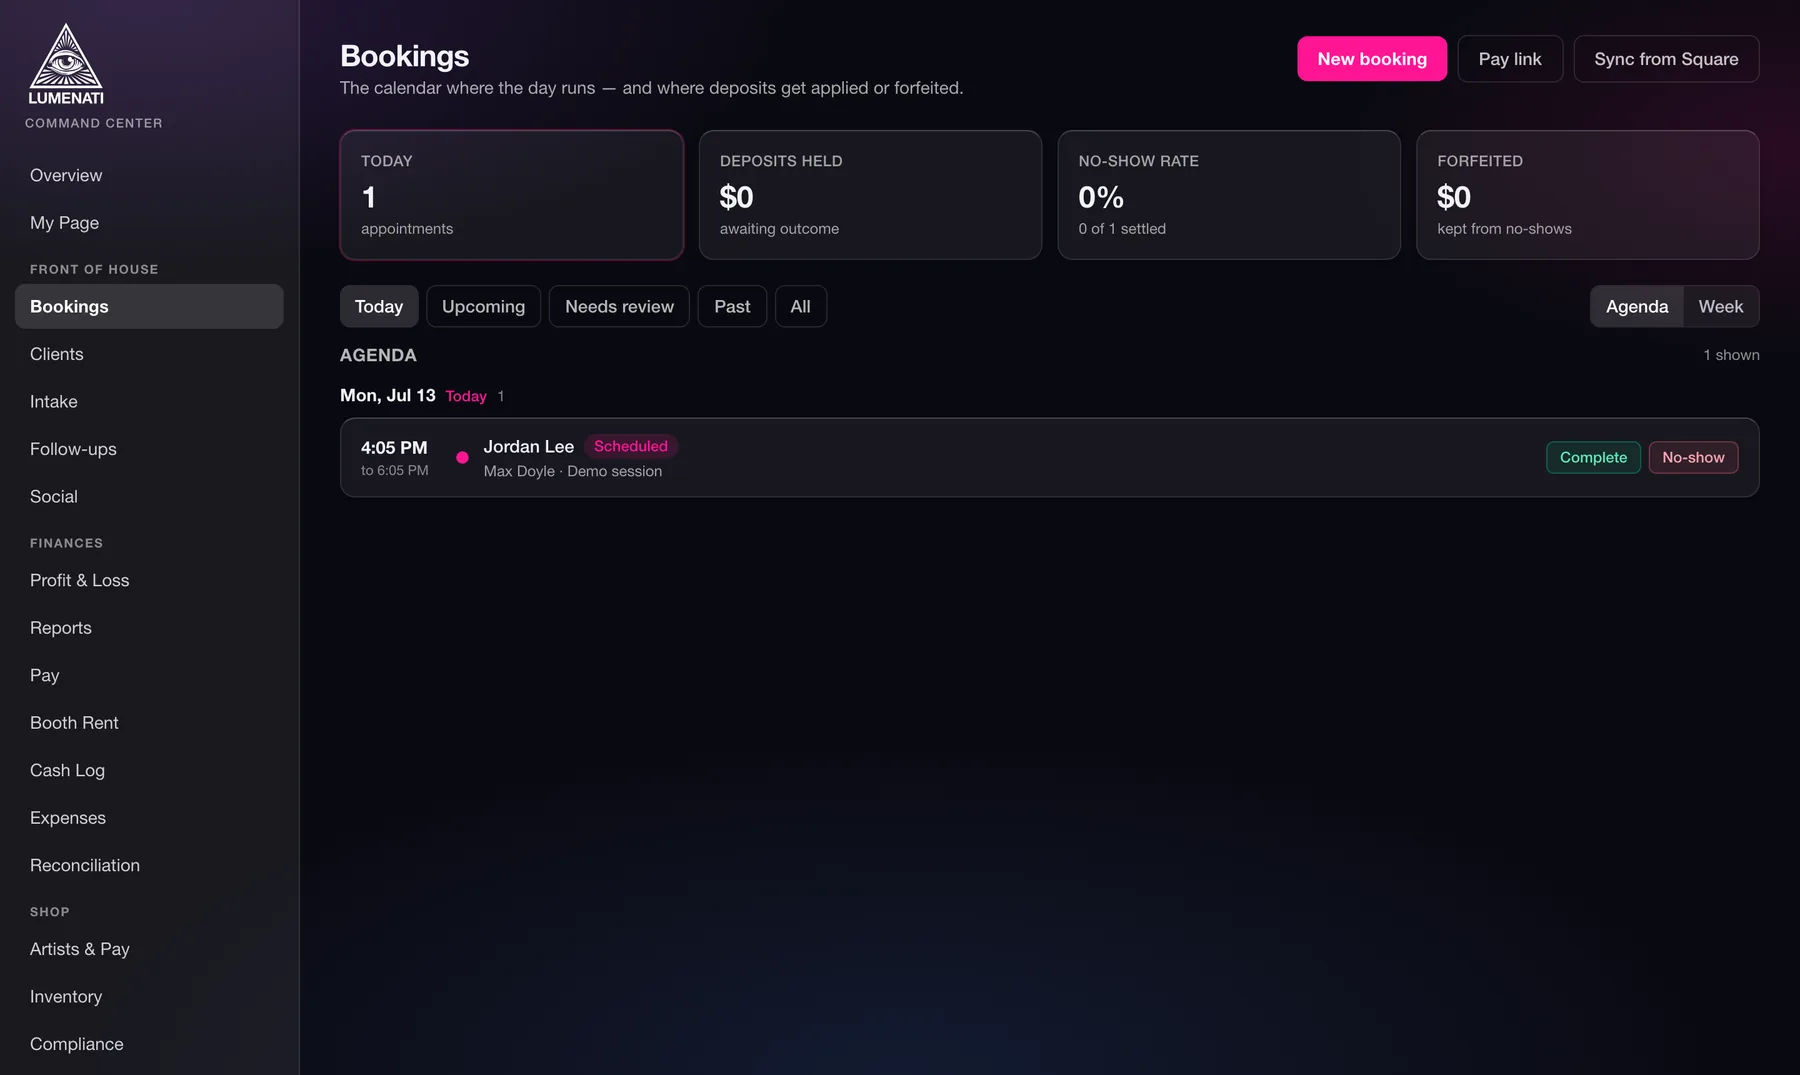
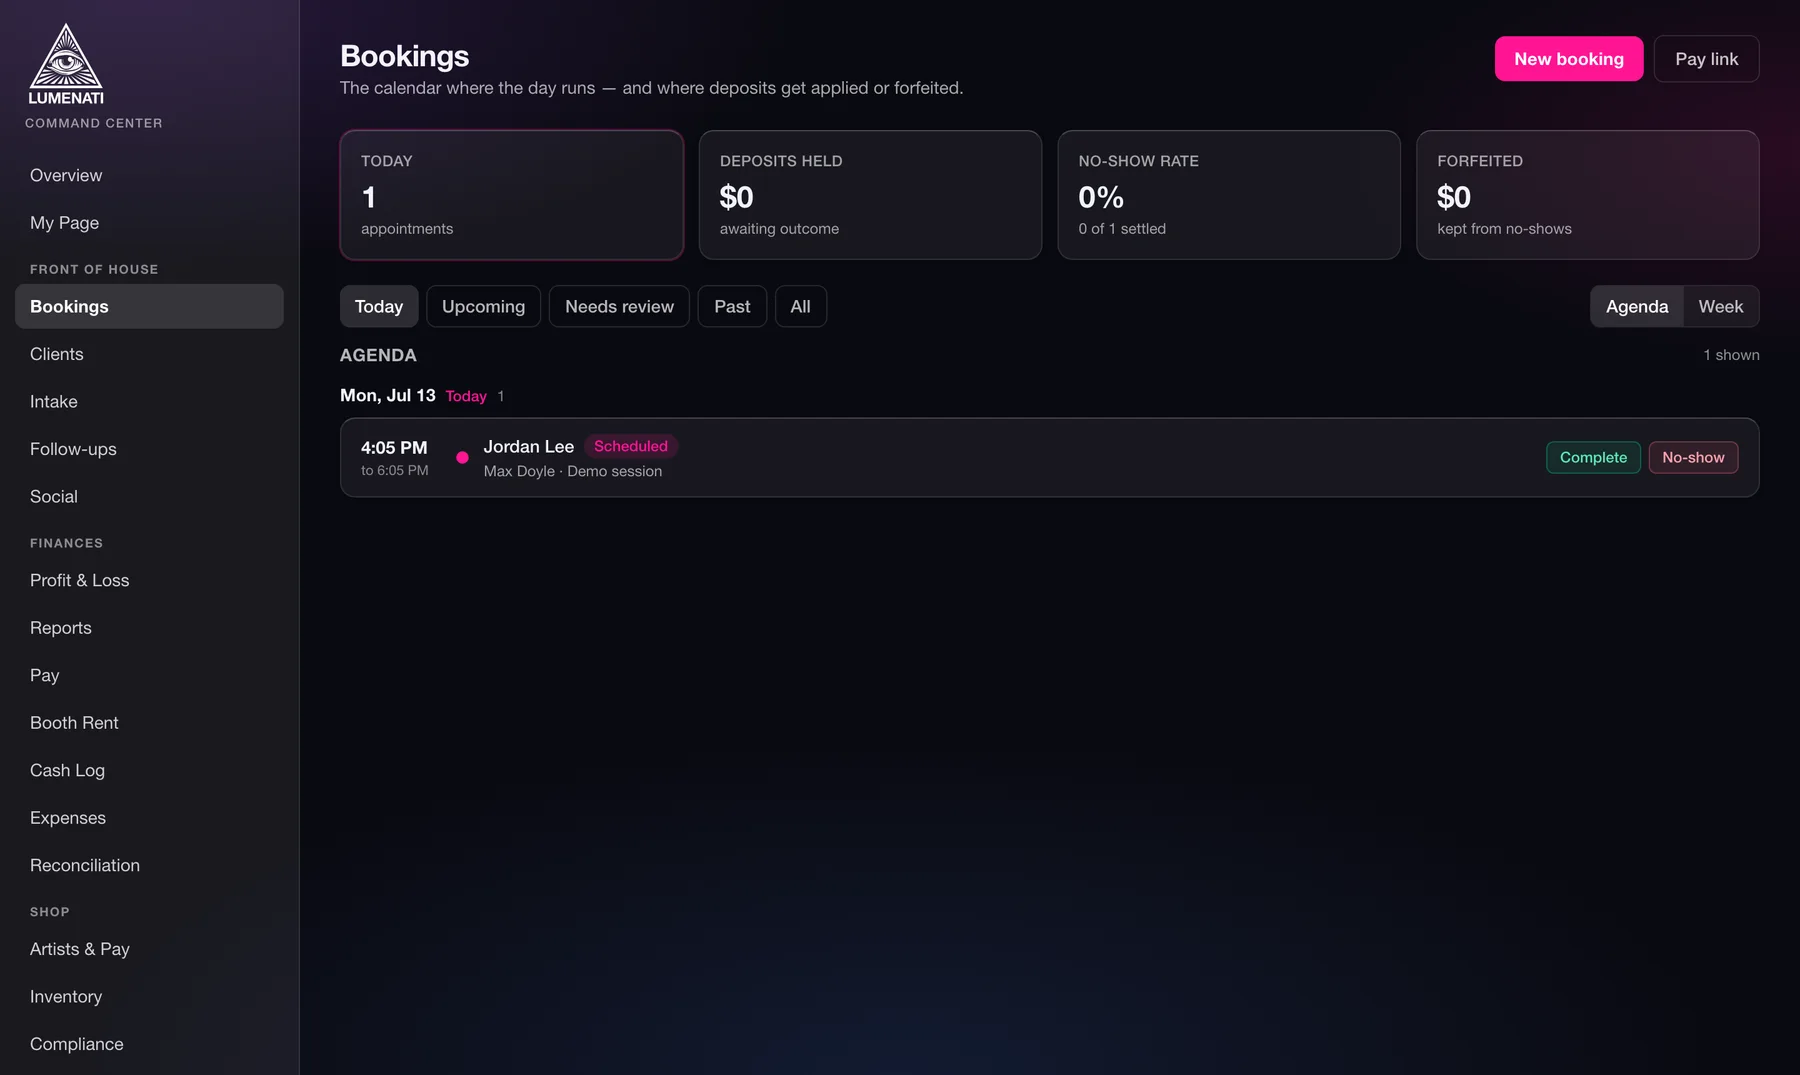
Marketing page v3: phones up front, zoomed feature highlights
- Three-phone strip right under the hero: live artist page (iframe),
  Command Center overview, and bookings, staggered, each captioned
- 'The good stuff, up close': element-level captures of the live page
  preview, the flash Claim-it tile, the coach card, and text-code sign-in,
  plus a full-width follow-ups queue strip
- One wide Command Center shot kept as the back-office beat
- marketing-shots.mjs: element screenshots via text-anchored locators,
  hides the Square sync button and Next dev bubble from captures

Changed region(s): [[0.7156, 0.0307, 0.9644, 0.0921]]

diff --git a/app/shops/page.tsx b/app/shops/page.tsx
@@ -1,37 +1,35 @@
 import Link from "next/link";
 import { LumenatiLogo } from "@/components/brand/LumenatiLogo";
 
-// The marketing page: sells the WHOLE product to other shops — the Command
-// Center, the artist pages, the phone story. The pitch line is locked
-// (Scott, 2026-07-12): "keep your website, we take over everything behind
-// it." Every screen on this page is the real product shot from the demo
-// tenant (scripts/marketing-shots.mjs regenerates them); the phone in the
-// artist-page row is a LIVE page, not an image.
+// The marketing page: the whole product, shown the way it actually gets
+// used — in phones, with zoomed-in highlights of the best moments instead
+// of full-window screenshots. Pitch line is locked (Scott, 2026-07-12).
+// Every image is the real product from the demo tenant
+// (scripts/marketing-shots.mjs regenerates them); the first phone is LIVE.
 
 const DEMO = "/s/apple-review/sam-rivera";
 
-// Alternating product rows: real screen + the claim it proves.
-const ROWS = [
+// The up-close bento: each card is a real element, captured 1:1.
+const HIGHLIGHTS = [
   {
-    img: "/marketing/bookings.webp",
-    kicker: "Front of house",
-    title: "Every request lands with the right artist",
-    body: "A client books from the artist's page and it shows up here: idea, placement, reference photos, deposit. Deposits get applied or forfeited on the same screen. Nobody plays phone tag at a counter.",
-    flip: false,
-  },
-  {
-    img: "/marketing/page-editor.webp",
-    kicker: "Their page, their rules",
+    img: "/marketing/hi-preview.webp",
     title: "Artists dress their own page",
-    body: "Photos, flash, bio, even the music. Changes go live the moment they make them, with a live preview right next to the controls. You never touch it, and it never looks stale.",
-    flip: true,
+    body: "Photos, flash, bio, the music. A live preview sits next to the controls and changes go out the moment they're made.",
   },
   {
-    img: "/marketing/followups.webp",
-    kicker: "The flywheel",
-    title: "Follow-ups send themselves",
-    body: "Aftercare instructions, healed-photo check-ins, review asks, and rebooking nudges go out on schedule, in your shop's voice. The work that never got done at the desk now happens every time.",
-    flip: false,
+    img: "/marketing/hi-flash.webp",
+    title: "Flash sells itself",
+    body: "Priced per piece, claimed right off the page. Claimed pieces get stamped and retired on their own.",
+  },
+  {
+    img: "/marketing/hi-coach.webp",
+    title: "A coach that reads your numbers",
+    body: "Deterministic reads from your own money, never invented. It tells you where the quiet days are and what to do with them.",
+  },
+  {
+    img: "/marketing/hi-signin.webp",
+    title: "No passwords, ever",
+    body: "Your crew signs in with a code texted to their phone. Onboarding an artist takes thirty seconds.",
   },
 ] as const;
 
@@ -41,24 +39,24 @@ const GRID = [
     body: "Registers, end-of-day books, artist pay, and booth rent in the Command Center instead of a spreadsheet and a shoebox.",
   },
   {
-    title: "Flash that sells itself",
-    body: "Artists post a sheet, price each piece, and clients claim them straight off the page. Claimed pieces get stamped and retired.",
+    title: "Deposits and no-show defense",
+    body: "Deposits up front, applied or forfeited in one tap. When a slot frees up, the waitlist gets a claim text.",
   },
   {
     title: "Books that close cleanly",
     body: "When an artist closes their books, every Book button becomes a waitlist door. The page never goes dark.",
   },
   {
-    title: "No-show defense",
-    body: "Deposits up front, and when a slot frees up the waitlist gets a claim text. First tap books it, the chair stays warm.",
-  },
-  {
     title: "Intake and compliance",
     body: "Consent forms signed at the chair, licenses and certs tracked with expiry warnings before they become a problem.",
   },
   {
-    title: "Text-code sign-in",
-    body: "Nobody remembers a password. Your crew signs in with a code texted to their phone, from day one.",
+    title: "Aftercare built in",
+    body: "Care instructions land on the client's phone; healed photos come back on their own. Nobody chases it.",
+  },
+  {
+    title: "Three looks, one product",
+    body: "Every shop picks its page style. Same booking, flash, and waitlist underneath.",
   },
 ] as const;
 
@@ -80,8 +78,8 @@ export default function ShopsMarketingPage() {
         </nav>
       </header>
 
-      {/* Hero — the locked pitch, then the product itself. */}
-      <section className="mkt-rise mx-auto max-w-3xl px-5 pb-14 pt-16 text-center sm:pt-24">
+      {/* Hero — the locked pitch. */}
+      <section className="mkt-rise mx-auto max-w-3xl px-5 pb-12 pt-16 text-center sm:pt-20">
         <div className="text-[11px] font-bold uppercase text-brand" style={{ letterSpacing: "0.35em" }}>
           For tattoo shops
         </div>
@@ -107,8 +105,91 @@ export default function ShopsMarketingPage() {
         </div>
       </section>
 
-      {/* The reveal: the real Command Center. */}
-      <section className="mkt-rise-2 mx-auto max-w-6xl px-5 pb-24">
+      {/* The product, in phones. First one is live. */}
+      <section className="mkt-rise-2 pb-6">
+        <div className="flex snap-x items-start justify-start gap-7 overflow-x-auto px-8 pb-8 pt-4 xl:justify-center">
+          <figure className="flex-none snap-center">
+            <div className="mkt-phone">
+              <iframe src={DEMO} title="Live artist page demo" loading="lazy" />
+            </div>
+            <figcaption className="mt-3 text-center text-sm text-zinc-400">
+              The artist page. <span className="font-semibold text-brand">Live, scroll it.</span>
+            </figcaption>
+          </figure>
+          <figure className="flex-none snap-center sm:mt-10">
+            <div className="mkt-phone">
+              {/* eslint-disable-next-line @next/next/no-img-element */}
+              <img src="/marketing/pocket.webp" alt="The Command Center overview on a phone" />
+            </div>
+            <figcaption className="mt-3 text-center text-sm text-zinc-400">
+              The whole shop, from a pocket.
+            </figcaption>
+          </figure>
+          <figure className="flex-none snap-center sm:mt-20">
+            <div className="mkt-phone">
+              {/* eslint-disable-next-line @next/next/no-img-element */}
+              <img src="/marketing/phone-bookings.webp" alt="Bookings on a phone: the day, deposits, one-tap complete or no-show" />
+            </div>
+            <figcaption className="mt-3 text-center text-sm text-zinc-400">
+              The day runs itself: deposits, one-tap close-out.
+            </figcaption>
+          </figure>
+        </div>
+      </section>
+
+      {/* The good stuff, up close. */}
+      <section className="mx-auto max-w-6xl px-5 pb-20 pt-10">
+        <div className="mx-auto max-w-2xl text-center">
+          <h2 className="text-2xl font-black tracking-tight sm:text-3xl">
+            The good stuff, up close
+          </h2>
+          <p className="mt-3 text-sm text-zinc-400">
+            Real pieces of the product, not mockups.
+          </p>
+        </div>
+        <div className="mt-10 grid grid-cols-1 gap-6 sm:grid-cols-2">
+          {HIGHLIGHTS.map((h) => (
+            <figure key={h.title} className="mkt-glass overflow-hidden">
+              <div className="border-b border-white/8 bg-black/30 p-5">
+                {/* eslint-disable-next-line @next/next/no-img-element */}
+                <img src={h.img} alt={h.title} className="mx-auto max-h-105 w-auto max-w-full rounded-lg" />
+              </div>
+              <figcaption className="p-5">
+                <div className="text-base font-bold">{h.title}</div>
+                <p className="mt-1.5 text-sm leading-relaxed text-zinc-400">{h.body}</p>
+              </figcaption>
+            </figure>
+          ))}
+        </div>
+
+        {/* The flywheel strip — real queue rows, full width. */}
+        <figure className="mkt-glass mt-6 overflow-hidden">
+          <div className="border-b border-white/8 bg-black/30 p-5">
+            {/* eslint-disable-next-line @next/next/no-img-element */}
+            <img src="/marketing/hi-followups.webp" alt="The follow-up queue: aftercare and reminders lined up to send" className="w-full rounded-lg" />
+          </div>
+          <figcaption className="p-5">
+            <div className="text-base font-bold">Follow-ups send themselves</div>
+            <p className="mt-1.5 text-sm leading-relaxed text-zinc-400">
+              Aftercare, healed-photo check-ins, review asks, and rebooking nudges queue up and go
+              out on schedule, in your shop&apos;s voice. The work that never got done at the desk
+              now happens every time.
+            </p>
+          </figcaption>
+        </figure>
+      </section>
+
+      {/* One wide shot: the back office exists and it's deep. */}
+      <section className="mx-auto max-w-6xl px-5 pb-24">
+        <div className="mx-auto max-w-2xl pb-8 text-center">
+          <h2 className="text-2xl font-black tracking-tight sm:text-3xl">
+            And a whole back office behind it
+          </h2>
+          <p className="mt-3 text-sm text-zinc-400">
+            Money, pay, rent, inventory, compliance, reports. On a desk when you want the big
+            picture, in your pocket when you don&apos;t.
+          </p>
+        </div>
         <div className="mkt-browser">
           <div className="mkt-browser-bar">
             <span />
@@ -117,77 +198,6 @@ export default function ShopsMarketingPage() {
           </div>
           {/* eslint-disable-next-line @next/next/no-img-element */}
           <img src="/marketing/command-center.webp" alt="The Lumenati Command Center: shop overview with the day, follow-ups due, coach reads, and the week's money" />
-        </div>
-        <p className="mx-auto mt-5 max-w-xl text-center text-sm text-zinc-400">
-          The Command Center. Your day, your money, what needs attention, and a coach that reads
-          from your own numbers. This is a real screen, demo shop data.
-        </p>
-      </section>
-
-      {/* Product rows — each claim shows the screen that proves it. */}
-      <section className="mx-auto max-w-6xl space-y-24 px-5 pb-24">
-        {ROWS.map((r) => (
-          <div key={r.title} className="grid items-center gap-8 md:grid-cols-2 md:gap-12">
-            <div className={r.flip ? "md:order-2" : ""}>
-              <div className="text-[11px] font-bold uppercase text-brand" style={{ letterSpacing: "0.3em" }}>
-                {r.kicker}
-              </div>
-              <h2 className="mt-3 text-2xl font-black tracking-tight sm:text-3xl">{r.title}</h2>
-              <p className="mt-4 text-sm leading-relaxed text-zinc-300 sm:text-base">{r.body}</p>
-            </div>
-            <div className={r.flip ? "md:order-1" : ""}>
-              <div className="mkt-browser">
-                <div className="mkt-browser-bar">
-                  <span />
-                  <span />
-                  <span />
-                </div>
-                {/* eslint-disable-next-line @next/next/no-img-element */}
-                <img src={r.img} alt={r.title} />
-              </div>
-            </div>
-          </div>
-        ))}
-
-        {/* The two phones: the live artist page + the shop in a pocket. */}
-        <div className="grid items-center gap-8 md:grid-cols-2 md:gap-12">
-          <div>
-            <div className="text-[11px] font-bold uppercase text-brand" style={{ letterSpacing: "0.3em" }}>
-              The hosted page
-            </div>
-            <h2 className="mt-3 text-2xl font-black tracking-tight sm:text-3xl">
-              Built to get artists booked
-            </h2>
-            <p className="mt-4 text-sm leading-relaxed text-zinc-300 sm:text-base">
-              The work leads, socials sit with the name, and Book is one tap from anywhere on the
-              page. Flash is priced and claimable. When books close, the waitlist takes over. The
-              phone on the right is live, scroll it.
-            </p>
-            <p className="mt-4 text-sm text-zinc-400">
-              Comes in three looks, every shop picks its own:{" "}
-              <a href={`${DEMO}?skin=standard`} className="font-semibold text-brand hover:brightness-110">standard</a>
-              {", "}
-              <a href={`${DEMO}?skin=dark`} className="font-semibold text-brand hover:brightness-110">dark ink</a>
-              {", or "}
-              <a href={`${DEMO}?skin=flash`} className="font-semibold text-brand hover:brightness-110">flash sheet</a>.
-            </p>
-            <h2 className="mt-10 text-2xl font-black tracking-tight sm:text-3xl">
-              And the whole shop in your pocket
-            </h2>
-            <p className="mt-4 text-sm leading-relaxed text-zinc-300 sm:text-base">
-              The Command Center works from a phone, and your crew runs their day, their page,
-              and their money from the app. Nobody has to sit behind a desk.
-            </p>
-          </div>
-          <div className="flex flex-wrap items-start justify-center gap-6">
-            <div className="mkt-phone">
-              <iframe src={DEMO} title="Live artist page demo" loading="lazy" />
-            </div>
-            <div className="mkt-phone">
-              {/* eslint-disable-next-line @next/next/no-img-element */}
-              <img src="/marketing/pocket.webp" alt="The Command Center on a phone" />
-            </div>
-          </div>
         </div>
       </section>
 
